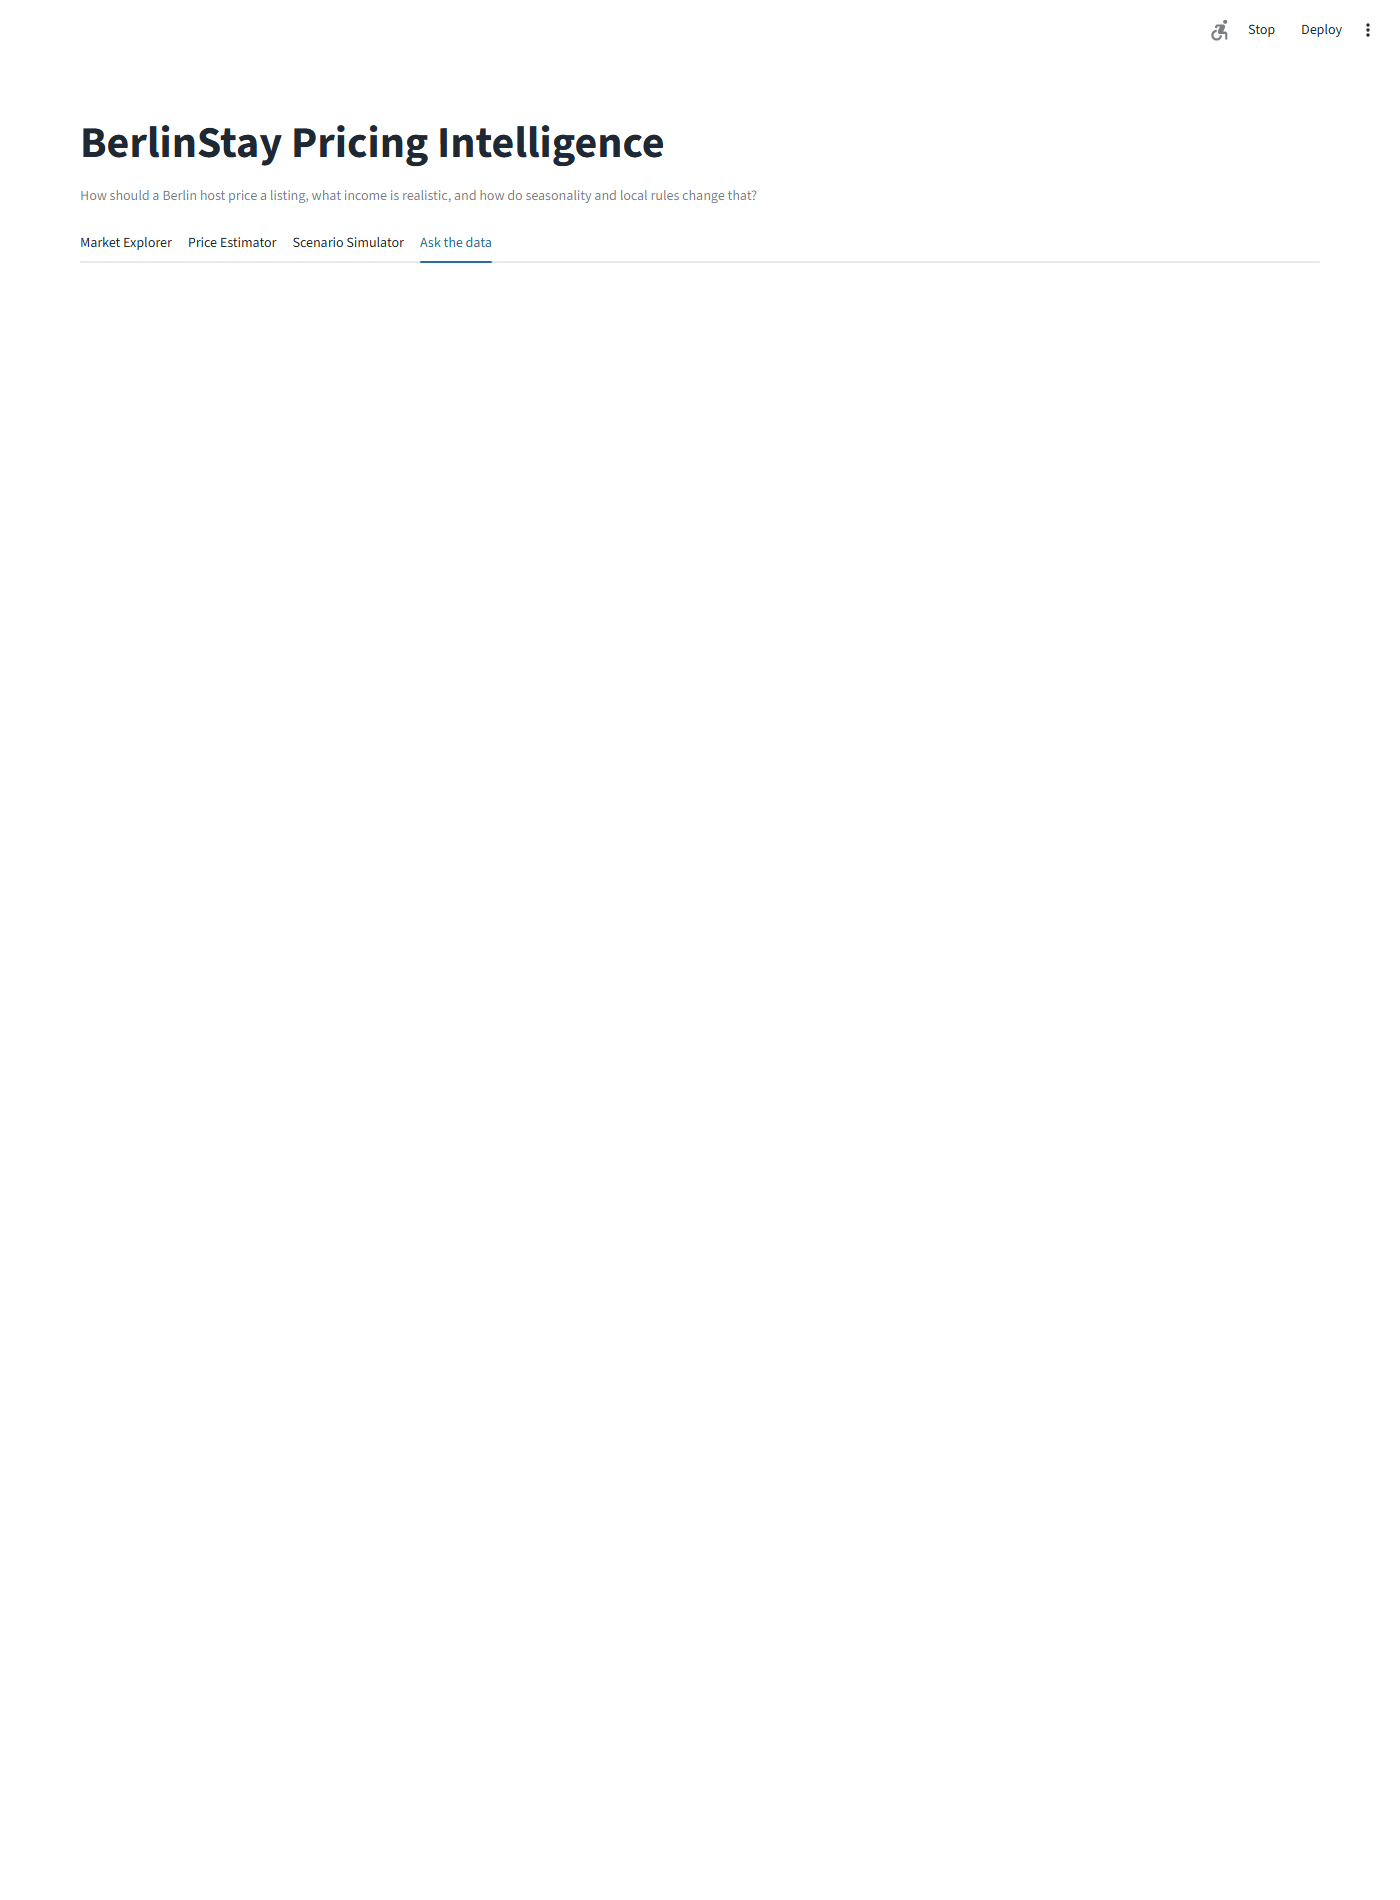
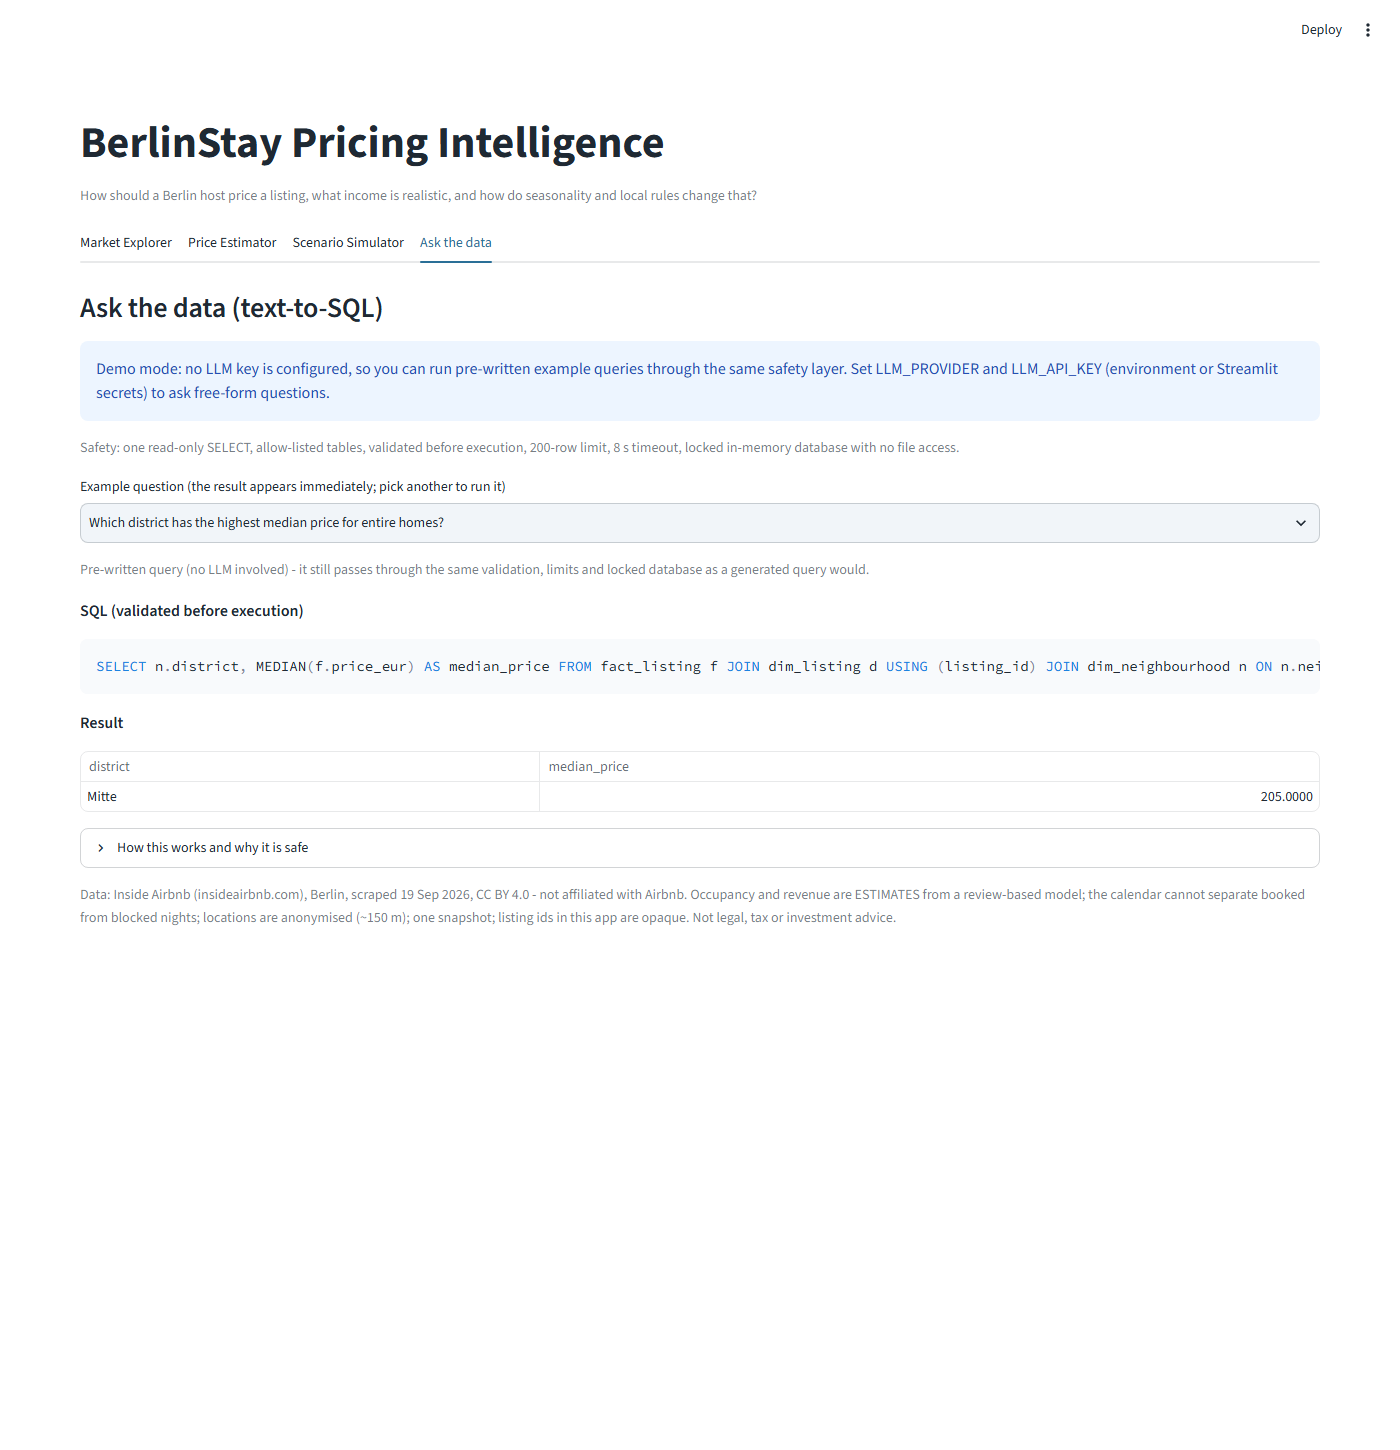
Ask the data: demo mode shows a validated example result immediately; fix blank screenshot

diff --git a/app/streamlit_app.py b/app/streamlit_app.py
@@ -244,9 +244,9 @@ with tab4:
     demo = [x for x in qs if x["expect"] == "result"]
     question, run_demo = "", False
     if provider is None:
-        pick = st.selectbox("Example question", [x["question"] for x in demo])
-        run_demo = st.button("Run example")
-        question = pick
+        default_i = next((i for i, x in enumerate(demo) if x["question"].startswith("Which district has the highest median price")), 0)
+        question = st.selectbox("Example question (the result appears immediately; pick another to run it)", [x["question"] for x in demo], index=default_i)
+        run_demo = True                                   # demo mode: run on selection, no button needed
     else:
         question = st.text_input("Your question", placeholder="e.g. Which district has the most entire homes above 200 EUR per night?", max_chars=500)
         st.caption("Examples: " + " | ".join(x["question"] for x in demo[:3]))
@@ -266,16 +266,29 @@ with tab4:
             with st.spinner("Generating and checking SQL..."):
                 a = ask(question, provider, get_con())
             res = dict(sql=a.sql, df=a.df, truncated=a.truncated, error=a.error)
+        if provider is None:
+            st.caption("Pre-written query (no LLM involved) - it still passes through the same validation, limits and locked database as a generated query would.")
         if res["sql"]:
             st.markdown("**SQL (validated before execution)**")
             st.code(res["sql"], language="sql")
         if res["error"]:
             st.error(res["error"])
         elif res["df"] is not None:
-            st.dataframe(res["df"], hide_index=True, width="stretch")
+            st.markdown("**Result**")
+            if len(res["df"]) <= 15:
+                st.table(res["df"].round(2).reset_index(drop=True))
+            else:
+                st.dataframe(res["df"], hide_index=True, width="stretch")
             if res["truncated"]:
                 st.caption("Showing the first 200 rows.")
             d = res["df"]
             if d.shape[1] == 2 and 1 < len(d) <= 40 and pd.api.types.is_numeric_dtype(d.iloc[:, 1]) and not pd.api.types.is_numeric_dtype(d.iloc[:, 0]):
                 st.bar_chart(d.set_index(d.columns[0]))
+    with st.expander("How this works and why it is safe"):
+        st.markdown("""
+1. An LLM (when a key is configured) turns your question into **one DuckDB SELECT** using only the table schema, never data rows.
+2. DuckDB's own parser must accept exactly one SELECT; every table must be on the allow-list; file/table functions are rejected.
+3. It runs on an **in-memory, locked** database (no file access), with a 200-row limit and 8 s timeout.
+4. If the SQL fails, the model gets the error once and may repair it. Anything that still fails is shown as a plain error.
+""")
     footer()

diff --git a/tests/test_app.py b/tests/test_app.py
@@ -11,8 +11,9 @@ def test_app_renders_and_demo_query_runs(monkeypatch):
     at = AppTest.from_file(str(ROOT / "app" / "streamlit_app.py"), default_timeout=180).run()
     assert not at.exception
     assert len(at.tabs) == 4 and len(at.metric) >= 10
-    btn = [b for b in at.button if b.label == "Run example"]
-    assert btn, "demo mode should offer pre-written examples when no LLM key is set"
-    btn[0].click()
-    at.run()
-    assert not at.exception and at.code and at.code[-1].value.lower().startswith("select")
+    assert at.code and at.code[-1].value.lower().startswith("select"), "demo mode must show a validated example result immediately"
+    assert len(at.table) >= 1
+    first = at.code[-1].value
+    sel = [s for s in at.selectbox if s.label.startswith("Example question")][0]
+    sel.select_index(0).run()                         # pick another example: a different query runs, no button needed
+    assert not at.exception and at.code[-1].value != first
